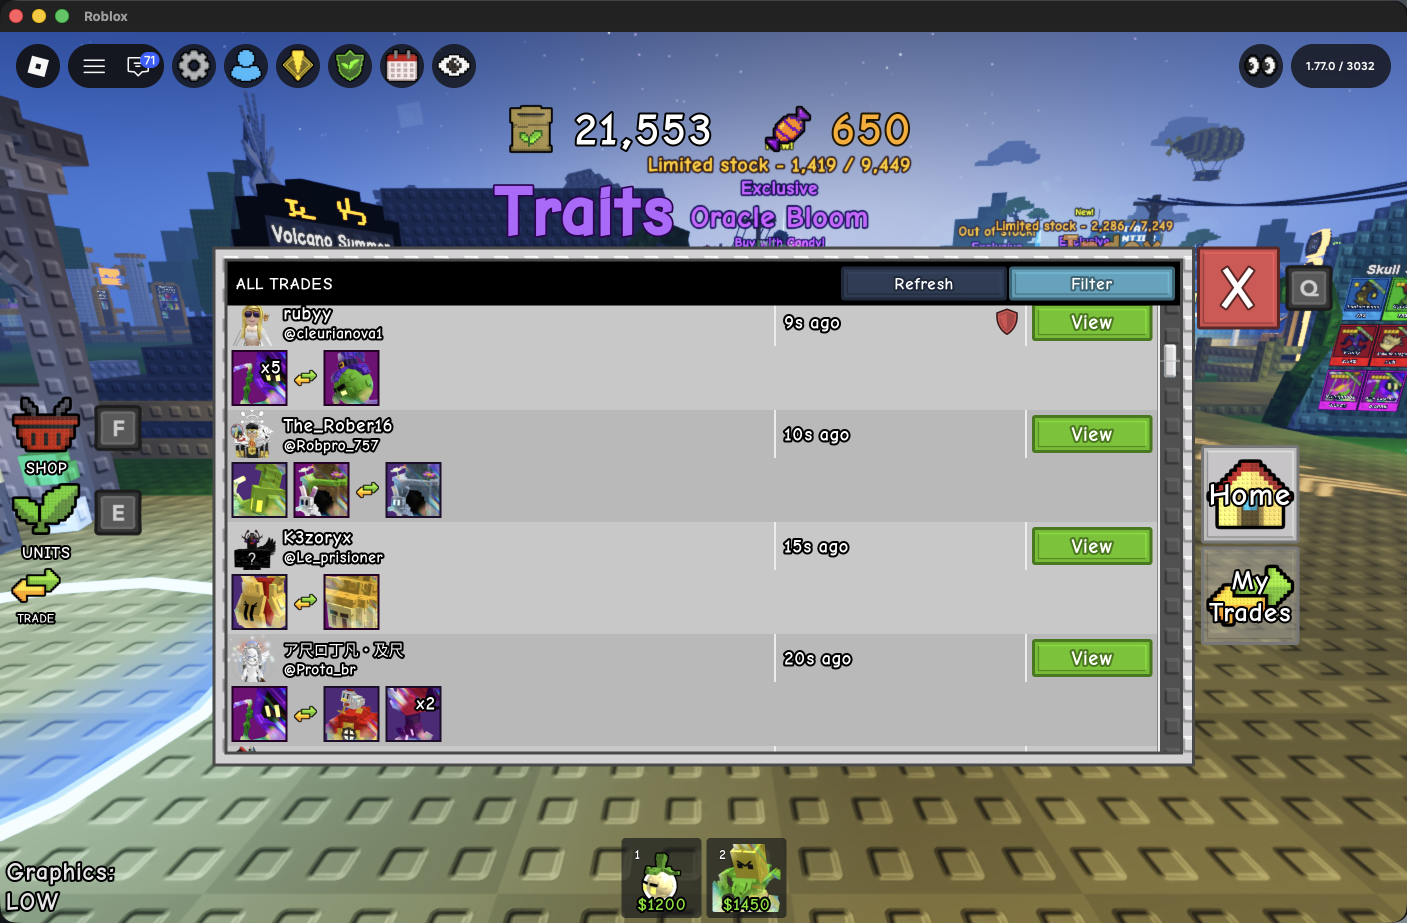
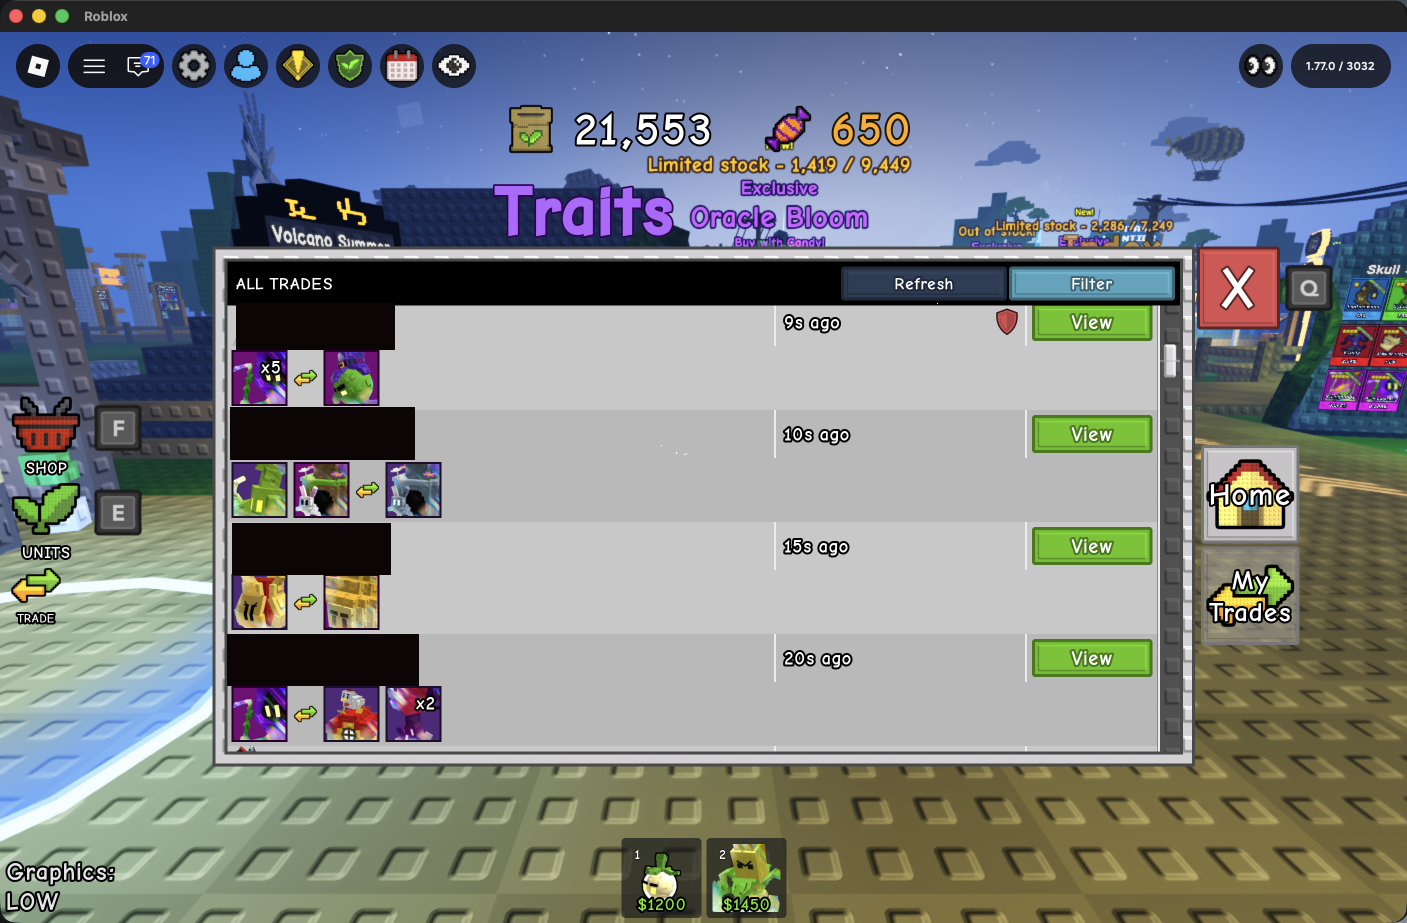
[Update] Add new changes layout, requirement, add censor to screenshot

diff --git a/README.md b/README.md
@@ -1,28 +1,42 @@
 # GTD Value Overlay
 
-Overlay value unit untuk menu trade **Garden Tower Defense** (Roblox). Program scan window Roblox, mengenali ikon unit, lalu menampilkan value di atas tiap ikon, lengkap dengan total per sisi trade.
+Overlay value unit untuk menu trade **Garden Tower Defense** (Roblox). Program scan window Roblox, mengenali ikon unit, lalu menampilkan value di atas tiap ikon, lengkap dengan total per sisi trade dan selisihnya.
 
 Program ini **hanya membaca layar** (screenshot). Tidak ada injeksi atau modifikasi client Roblox.
+
+![screenshot](docs/screenshot.png)
 
 ## Fitur
 
 - Value muncul di atas ikon unit secara otomatis
-- Scan **hanya window Roblox**, bukan seluruh layar
+- Scan **hanya window Roblox**, dan hanya area daftar trade (bukan dunia game)
 - Baca badge qty (`x6`) lewat OCR, value otomatis dikali qty
 - Total value per sisi trade (**Punya** vs **Cari**) beserta selisih (hijau = untung, merah = rugi)
-- Update `values.json` dari post update value Discord dengan satu perintah
+- Deteksi cepat: grayscale, multi-thread, dan dilewati kalau layar tidak berubah
+- Overlay tetap tampil di atas Roblox walau window Roblox sedang fokus
+- Update `values.json` dari post update value Discord dengan satu perintah, aman dari file lama
 
 ## Struktur folder
 
 ```
-gtd_value/
-├── gtd_value.py        # program utama (overlay, tool screenshot & crop)
-├── updates/            # simpan tiap post update value Discord di sini (file teks)
-├── values.json         # data value unit
-├── arrow.png           # template ikon panah ⇄ (dibuat sekali, untuk total per sisi)
-├── templates/          # template ikon unit (dibuat sekali)
-└── requirements.txt
+gtd-value-overlay/
+├── src/
+│   └── gtd_value/
+│       ├── gtd_value.py       # program utama (overlay, tool shot & crop)
+│       ├── update_values.py   # parser post update Discord -> data/values.json
+│       └── paths.py           # satu-satunya tempat definisi path folder
+├── data/
+│   ├── values.json            # data value unit
+│   └── arrow.png              # template ikon panah ⇄ (untuk total per sisi)
+├── templates/                 # template ikon unit (dibuat sendiri lewat tool crop)
+├── updates/                   # simpan tiap post update Discord di sini (file teks)
+├── docs/
+│   └── screenshot.png         # gambar untuk README
+├── requirements.txt
+└── README.md
 ```
+
+Semua path dihitung dari lokasi `paths.py` (`ROOT = parents[2]`), jadi program bisa dijalankan dari folder mana pun. Kalau `paths.py` dipindah ke kedalaman folder yang lain, ubah angka `parents[...]`-nya.
 
 ## Instalasi
 
@@ -37,11 +51,15 @@ gtd_value/
    - Mac: `brew install tesseract`
    - Windows: installer dari https://github.com/UB-Mannheim/tesseract/wiki (centang opsi tambah ke PATH)
 
-4. Library khusus OS (untuk mencari window Roblox):
-   - Mac: `pip install pyobjc-framework-Quartz`
+4. Library khusus OS (untuk mencari window Roblox dan menjaga overlay tetap tampil):
+   - Mac: `pip install pyobjc-framework-Quartz pyobjc-framework-Cocoa`
    - Windows: `pip install pywin32`
 
+   Kalau `requirements.txt` sudah memuatnya (dengan penanda `sys_platform`), langkah ini otomatis ikut langkah 2.
+
 5. **Mac:** beri izin *Screen Recording* ke Terminal/IDE yang dipakai di System Settings > Privacy & Security.
+
+Semua perintah di bawah dijalankan dari **root repo**.
 
 ## Setup awal (sekali saja)
 
@@ -50,7 +68,7 @@ gtd_value/
 Buka menu trade di game, lalu jalankan:
 
 ```
-python gtd_value.py shot
+python src/gtd_value/gtd_value.py shot
 ```
 
 Kamu punya 3 detik untuk pindah ke Roblox. Hasilnya `screenshot.png` (hanya window Roblox).
@@ -58,20 +76,20 @@ Kamu punya 3 detik untuk pindah ke Roblox. Hasilnya `screenshot.png` (hanya wind
 ### 2. Crop ikon unit jadi template
 
 ```
-python gtd_value.py crop screenshot.png
+python src/gtd_value/gtd_value.py crop screenshot.png
 ```
 
-Untuk tiap unit: drag kotak pas di border ikon, tekan **Enter**, lalu ketik nama unit. Tekan **Esc** kalau sudah selesai.
+Untuk tiap unit: drag kotak pas di border ikon, tekan **Enter**, lalu ketik nama unit. Tekan **Esc** kalau sudah selesai. Hasilnya masuk ke `templates/`.
 
-- Nama harus **sama persis** dengan key di `values.json`.
+- Nama harus **sama persis** dengan key di `data/values.json`.
 - Varian visual (mutasi, rainbow, dll.) disimpan sebagai template tambahan, misalnya `Nama Unit__shiny.png`. Program menganggapnya unit yang sama.
 - Ambil screenshot dari window yang ukurannya sama dengan yang dipakai saat main, supaya skala template cocok.
 
 ### 3. Crop panah trade (untuk total per sisi)
 
-Di tool crop yang sama, crop **hanya ikon panah ⇄** serapat mungkin dan beri nama `arrow`. Hasilnya `arrow.png`. Tanpa file ini, label value per unit tetap jalan, tapi total per sisi nonaktif.
+Di tool crop yang sama, crop **hanya ikon panah ⇄** serapat mungkin dan beri nama `arrow`. Hasilnya `data/arrow.png`. Tanpa file ini, label value per unit tetap jalan, tapi total per sisi nonaktif.
 
-### 4. Isi values.json
+### 4. Isi data/values.json
 
 Format boleh angka saja atau objek:
 
@@ -87,7 +105,7 @@ Tapi cara paling gampang adalah lewat update Discord (lihat bagian di bawah).
 ## Menjalankan
 
 ```
-python gtd_value.py
+python src/gtd_value/gtd_value.py
 ```
 
 Buka menu trade di Roblox dan overlay akan muncul. `Ctrl+C` di terminal untuk berhenti.
@@ -97,23 +115,23 @@ Di baris trade kamu akan melihat:
 - **Label kuning di atas ikon**: value unit, atau `value ×qty = total` kalau ada badge qty
 - **Kotak di kanan unit terakhir**: `Punya` (sisi kiri panah), `Cari` (sisi kanan panah), dan `Selisih`
 
+Setelah mengubah `data/values.json`, **restart program** karena file itu hanya dibaca saat start.
+
 ## Update value dari Discord
 
-Simpan tiap post update jadi file teks yang **namanya memuat tanggal rilis**, lalu jalankan:
+Simpan tiap post update jadi file teks di `updates/` yang **namanya memuat tanggal rilis**, lalu jalankan:
 
 ```
-python update_values.py updates/update_2026-11-13.txt   # satu file
-python update_values.py updates/*.txt                    # banyak file sekaligus, urutan bebas
-python update_values.py clip                             # dari clipboard (pip install pyperclip), tanggal = hari ini
-python update_values.py                                  # paste di terminal, akhiri Ctrl+D (Mac) / Ctrl+Z lalu Enter (Windows)
-python update_values.py file.txt --date 2026-11-13       # paksa tanggal kalau nama file tidak memuat tanggal
+python src/gtd_value/update_values.py updates/update_2026-11-13.txt   # satu file
+python src/gtd_value/update_values.py updates/*.txt                    # banyak file sekaligus, urutan bebas
+python src/gtd_value/update_values.py clip                             # dari clipboard (pip install pyperclip), tanggal = hari ini
+python src/gtd_value/update_values.py                                  # paste di terminal, akhiri Ctrl+D (Mac) / Ctrl+Z lalu Enter (Windows)
+python src/gtd_value/update_values.py file.txt --date 2026-11-13       # paksa tanggal kalau nama file tidak memuat tanggal
 ```
-
-Setelah itu **restart `gtd_value.py`** karena `values.json` hanya dibaca saat program start.
 
 ### Aman dari file lama (anti-menimpa)
 
-Tiap unit di `values.json` menyimpan tanggal update terakhirnya (`"updated"`). Kalau kamu memproses file yang tanggalnya **lebih lama** dari tanggal itu, unit tersebut **dilewati** dan value terbaru tidak tertimpa. Kalau banyak file diberikan sekaligus, script memprosesnya dari yang paling lama ke yang paling baru, jadi urutan penulisan tidak berpengaruh.
+Tiap unit di `data/values.json` menyimpan tanggal update terakhirnya (`"updated"`). Kalau kamu memproses file yang tanggalnya **lebih lama** dari tanggal itu, unit tersebut **dilewati** dan value terbaru tidak tertimpa. Kalau banyak file diberikan sekaligus, script memprosesnya dari yang paling lama ke yang paling baru, jadi urutan penulisan tidak berpengaruh.
 
 - Format tanggal di nama file: `2026-11-13`, `20261113`, atau `13-11-2026` (hari-bulan-tahun).
 - Nama file tanpa tanggal ditolak. Tambahkan `--date YYYY-MM-DD` atau ganti nama filenya.
@@ -124,12 +142,13 @@ Tiap unit di `values.json` menyimpan tanggal update terakhirnya (`"updated"`). K
 
 - Hanya unit yang ada di post yang diubah, unit lain dibiarkan
 - Nilai yang dipakai adalah sisi kanan `-->` (nilai terbaru)
+- Unit yang di post hanya berubah demand/status (tanpa baris `Value:`) juga didukung: yang diubah cuma demand/status, value-nya dibiarkan
 - Nama unit dicocokkan tanpa peduli huruf besar/kecil
 - Menyimpan `value`, `demand`, `status`, `tier` (EXCLUSIVE/GODLY, dst.), dan `updated`
-- Backup otomatis ke `values.json.bak`
+- Backup otomatis ke `data/values.json.bak`
 - Unit baru ditandai di output, cek ejaannya dengan nama template
 
-**Skala angka:** secara default value disimpan dalam ribuan (`30.45k+` jadi `30.45`). Kalau `values.json`-mu memakai angka penuh, ubah `STORE_IN_K = False` di `update_values.py`. Jangan campur dua skala dalam satu file.
+**Skala angka:** secara default value disimpan dalam ribuan (`30.45k+` jadi `30.45`). Kalau `data/values.json`-mu memakai angka penuh, ubah `STORE_IN_K = False` di `update_values.py`. Jangan campur dua skala dalam satu file.
 
 ## Konfigurasi
 
@@ -137,9 +156,14 @@ Konstanta di bagian atas `gtd_value.py`:
 
 | Nama | Fungsi |
 |---|---|
-| `THRESHOLD` | Ketat tidaknya pencocokan unit. Naikkan kalau salah deteksi, turunkan kalau unit tidak terbaca |
-| `ARROW_THRESHOLD` | Sama, untuk deteksi panah |
-| `SCAN_INTERVAL` | Jeda antar scan (detik) |
+| `THRESHOLD` | Ketat tidaknya pencocokan unit (mode warna). Naikkan kalau salah deteksi, turunkan kalau unit tidak terbaca |
+| `USE_GRAY` | `True`: deteksi grayscale, jauh lebih cepat. `False`: mode warna, lebih ketat tapi lebih lambat |
+| `THRESHOLD_GRAY` | Threshold khusus mode grayscale (default `0.85`, lebih tinggi karena grayscale lebih longgar) |
+| `ROI` | Area daftar trade relatif terhadap window Roblox: `(kiri, atas, kanan, bawah)`, nilai 0 sampai 1. `None` = scan seluruh window |
+| `FRAME_DIFF` | Seberapa besar perubahan layar sebelum deteksi dijalankan ulang. Makin kecil makin sensitif |
+| `REDETECT_EVERY` | Paksa deteksi ulang tiap N detik sebagai pengaman |
+| `ARROW_THRESHOLD` | Threshold deteksi panah |
+| `SCAN_INTERVAL` | Jeda antar scan (detik). `0.3` cocok kalau deteksi dilewati saat layar diam |
 | `SCALES` | Tambah ke `(0.9, 1.0, 1.1)` kalau ukuran UI berubah-ubah (scan jadi lebih lambat) |
 | `ACCEPT_VIEW` | `True`: selisih = kiri - kanan. `False`: kebalikannya |
 | `DEBUG_QTY` | `True` menyimpan `debug_qty.png` dan mencetak hasil OCR badge, untuk debug |
@@ -148,19 +172,24 @@ Konstanta di bagian atas `gtd_value.py`:
 
 | Masalah | Solusi |
 |---|---|
-| Overlay kosong | Pastikan window Roblox terlihat (tidak tertutup window lain) dan folder `templates/` ada isinya |
-| Unit tidak dapat label | Template belum ada atau skor di bawah `THRESHOLD`. Turunkan ke 0.70 atau crop ulang template |
-| Label `?` | Nama unit tidak ada di `values.json` atau ejaannya beda dengan nama template |
-| Qty `xN` tidak terbaca | Cek pesan `[PERINGATAN]` saat start (Tesseract belum terpasang). Set `DEBUG_QTY = True` dan cek `debug_qty.png`. Badge baru terkonfirmasi setelah 2 scan (~1 detik) |
-| Total per sisi tidak muncul | `arrow.png` belum ada, atau turunkan `ARROW_THRESHOLD` ke 0.60 |
+| Pesan `Tidak ada template di: <path>` | Folder yang dibaca ada di pesan itu. Pastikan `templates/` di root berisi file `.png` dan `paths.py` menunjuk ke sana |
+| Overlay kosong | Pastikan window Roblox terlihat (tidak tertutup window lain) dan `templates/` ada isinya |
+| Unit tidak dapat label | Template belum ada atau skor di bawah threshold. Turunkan sedikit, atau crop ulang template |
+| Unit di tepi daftar tidak dapat label | Area `ROI` terlalu sempit. Lebarkan sedikit |
+| Label nyasar di luar menu trade, atau di teks | False positive. Pastikan `ROI` terpasang, naikkan `THRESHOLD_GRAY`, atau set `USE_GRAY = False` |
+| Label `?` | Nama unit tidak ada di `data/values.json` atau ejaannya beda dengan nama template |
+| Qty `xN` tidak terbaca | Cek pesan `[PERINGATAN]` saat start (Tesseract belum terpasang). Set `DEBUG_QTY = True` dan cek `debug_qty.png`. Badge baru terkonfirmasi setelah 2 scan |
+| Total per sisi tidak muncul | `data/arrow.png` belum ada, atau turunkan `ARROW_THRESHOLD` ke 0.60 |
+| Overlay hilang saat fokus ke Roblox (Mac) | Pastikan `pyobjc-framework-Cocoa` terpasang dan `mac_always_visible()` dipanggil setelah `ov.show()` |
 | Window Roblox tidak ketemu (Windows) | Judul window harus persis `Roblox`. Cek di Task Manager |
 | Total terlihat terlalu kecil | Ada ikon yang tidak terdeteksi (tidak punya label). Total hanya menjumlahkan unit yang terdeteksi |
-| `+?` di total | Ada unit terdeteksi tapi value-nya belum ada di `values.json` |
+| `+?` di total | Ada unit terdeteksi tapi value-nya belum ada di `data/values.json` |
 
 ## Batasan
 
 - Deteksi memakai template matching: satu template cocok untuk satu tampilan. Unit dengan varian visual perlu template sendiri.
 - Total dan selisih **hanya menghitung unit yang terdeteksi**. Percaya angkanya kalau semua ikon di baris itu punya label.
 - Selisih hanya membandingkan value. Demand dan status unit tidak ikut dihitung, jadi anggap sebagai filter cepat, bukan keputusan final.
+- Angka `ROI` mengasumsikan rasio window Roblox seperti saat dihitung. Kalau rasio window berubah banyak, sesuaikan.
 - Mengasumsikan Roblox ada di monitor utama.
 - Akurasi data bergantung pada sumber value (post komunitas di Discord).
